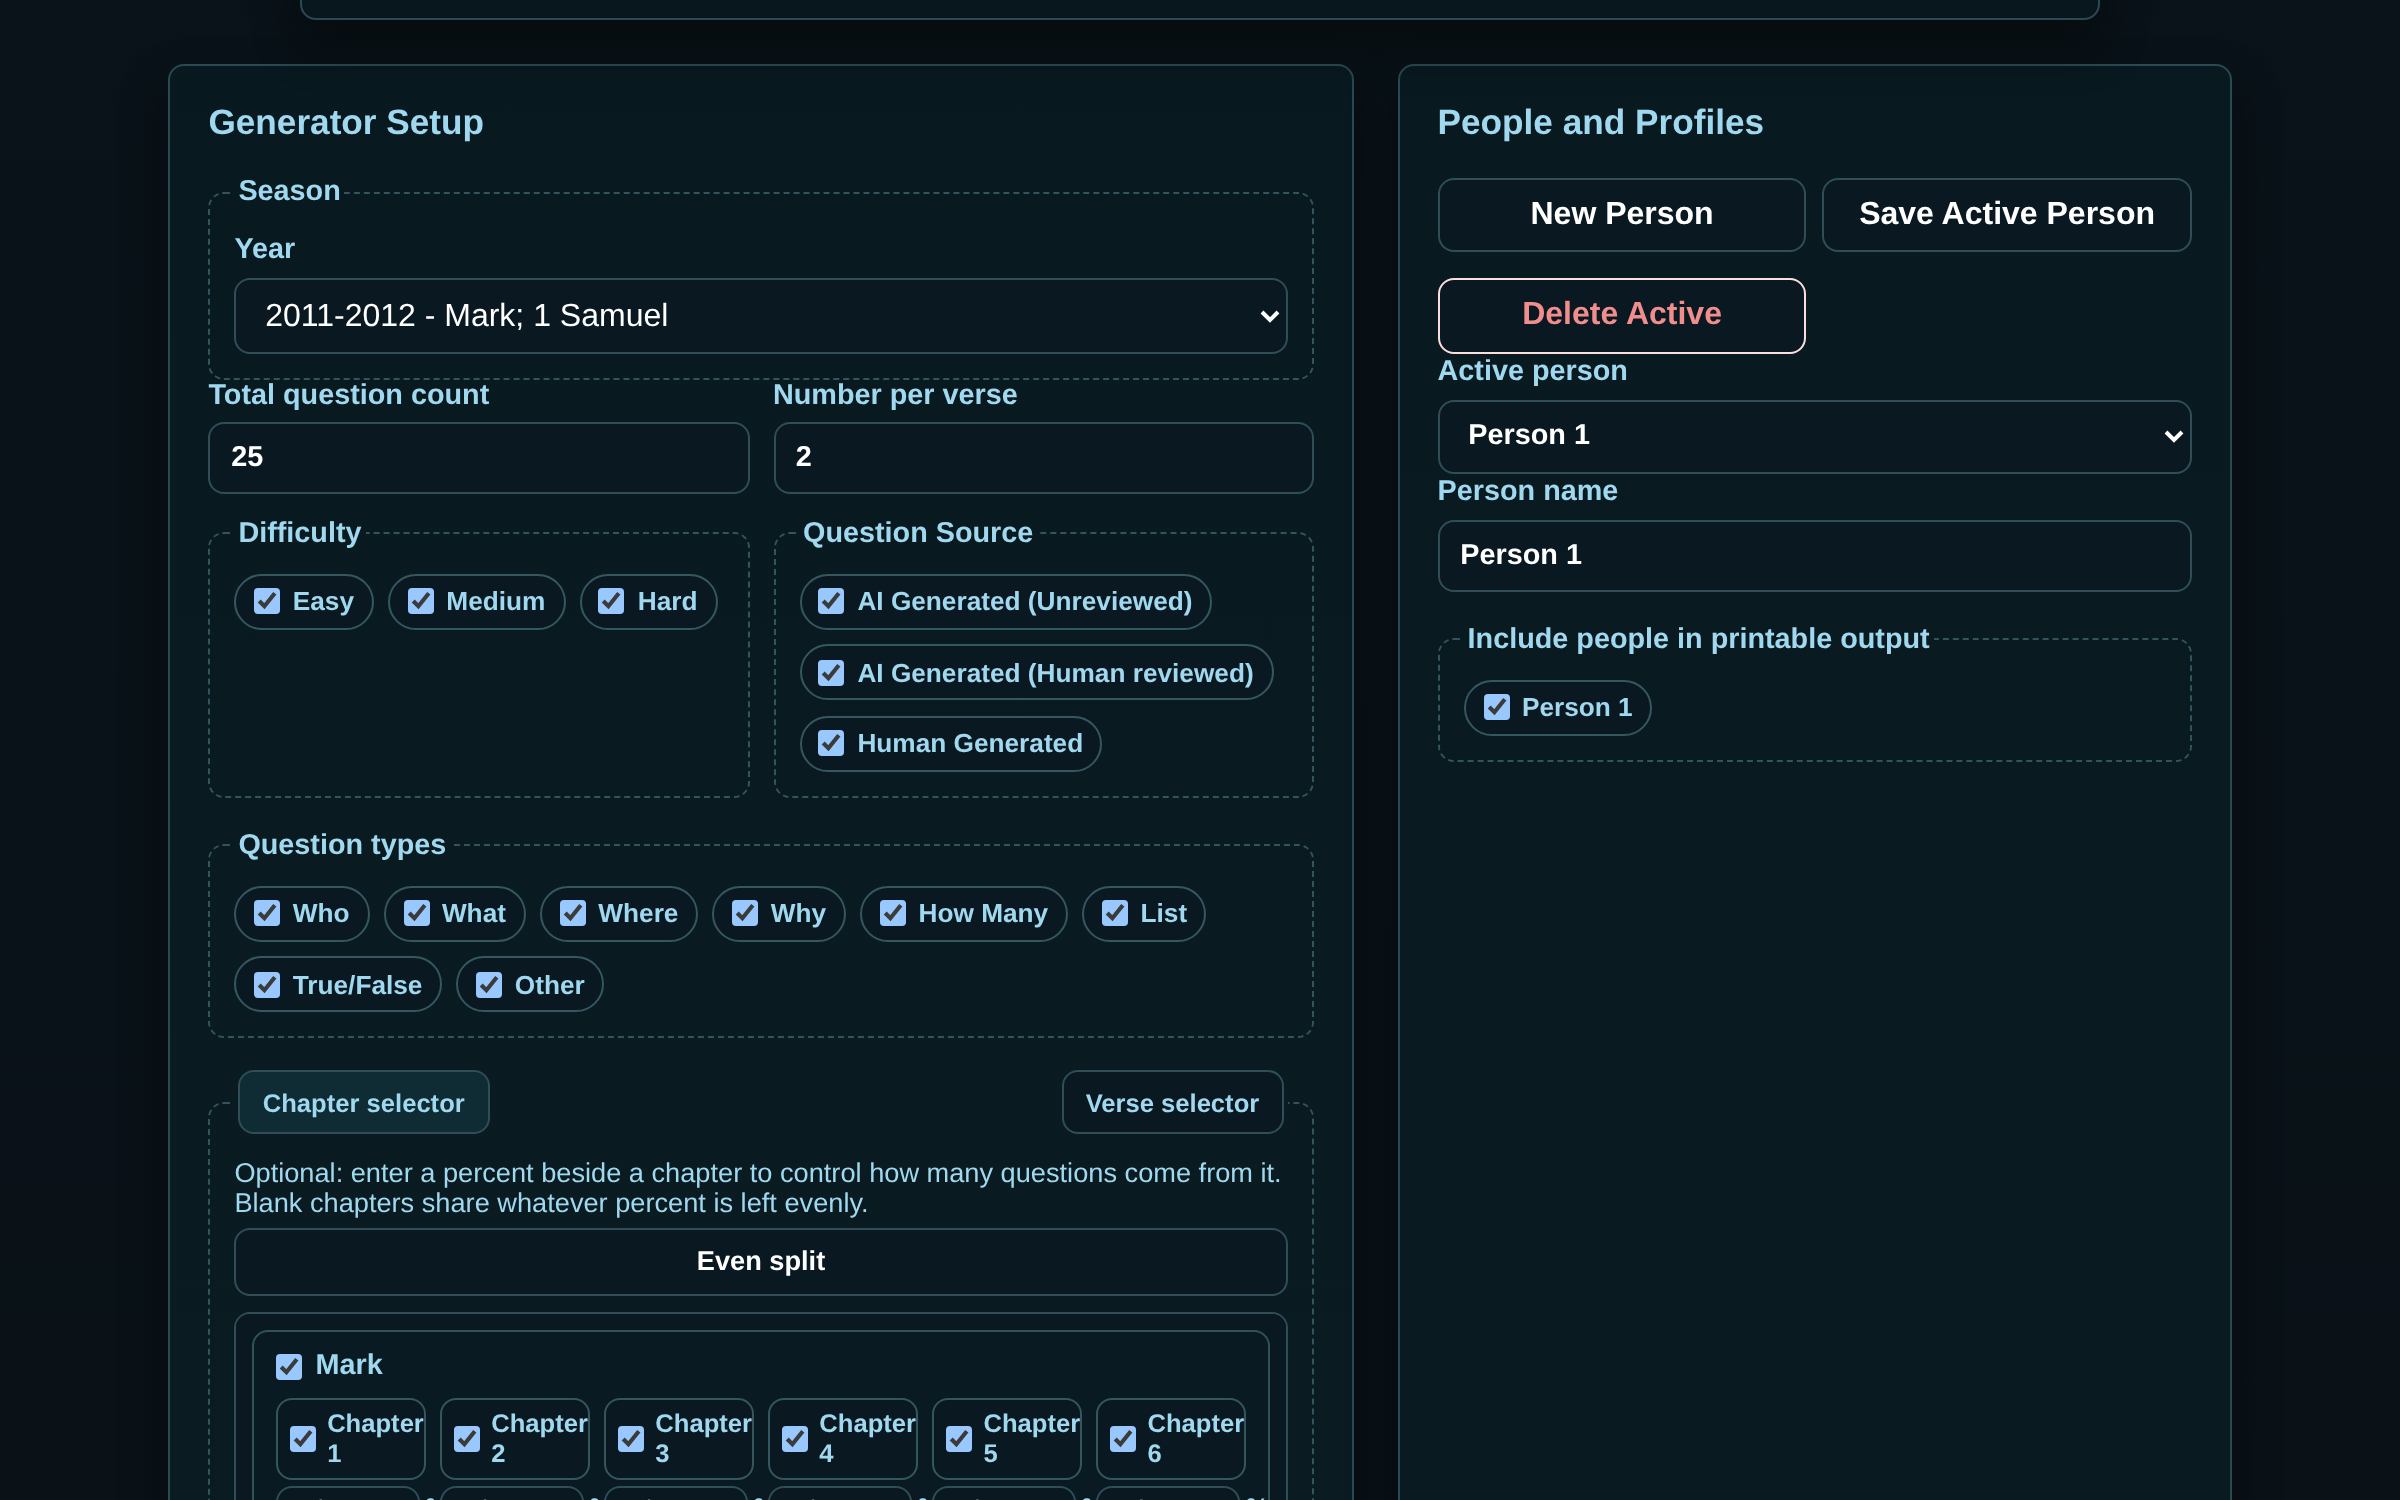
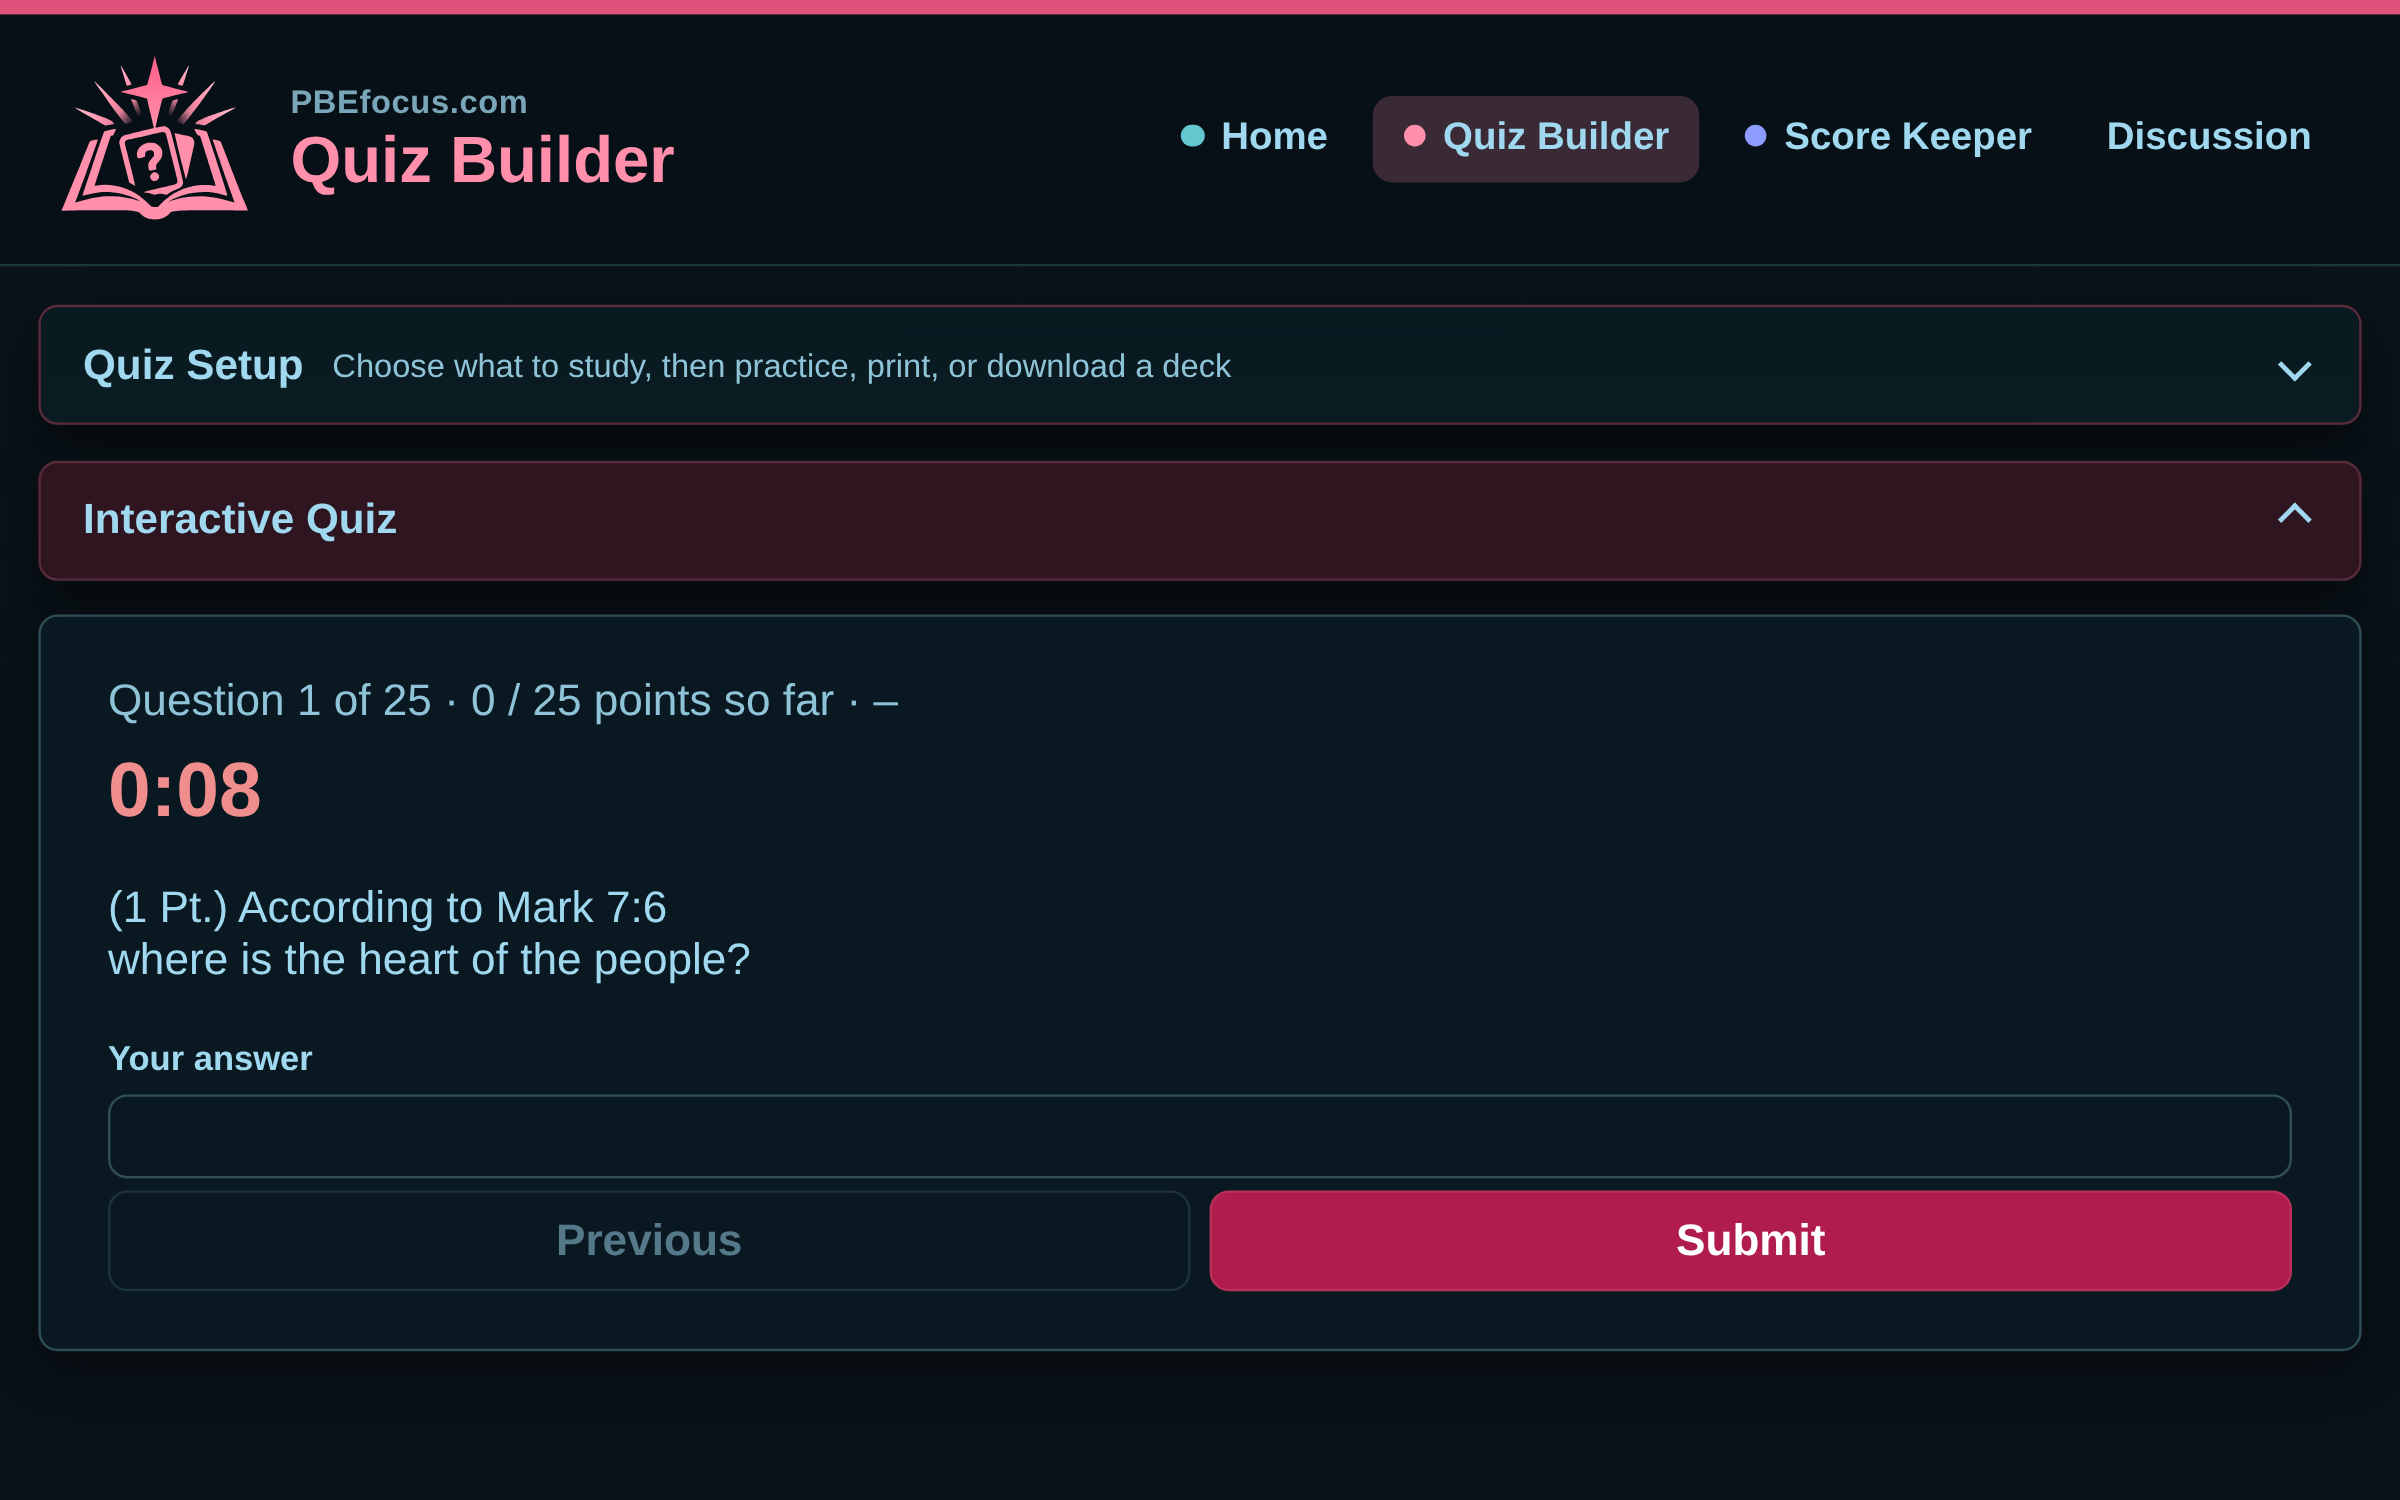
Refresh the Quiz Builder home-card screenshots; follow the accent in panel gradients
New light and dark screenshots show the rebuilt Quiz Builder (ruby header lockup, timed
interactive question) in place of the old Generator Setup view, with matching alt text.
brand.css: panel and card gradients were hard-coded to a teal wash; they now use the accent
wash (light mode only).

Claude-Session: https://claude.ai/code/session_015wnkqHrwHQNyrqygxi6B5s

diff --git a/brand.css b/brand.css
@@ -229,6 +229,21 @@ html[data-site] .karaoke-word.active {
   color: #fff;
 }
 
+/* Panel and card gradients were hard-coded to a teal wash (rgba(232,247,246)); follow the accent
+   instead. Light mode only: the dark surfaces are the shared neutral. */
+@media (prefers-color-scheme: light), (prefers-color-scheme: no-preference) {
+  html[data-site] {
+    --panel-bg: linear-gradient(180deg, rgba(255, 255, 252, 0.98),
+      color-mix(in srgb, var(--teal-wash) 96%, transparent));
+  }
+  html[data-site] .panel,
+  html[data-site] .feature-card:not(.resources-card),
+  [data-tool] .feature-card:not(.resources-card) {
+    background: var(--panel-bg, linear-gradient(180deg, rgba(255, 255, 252, 0.98),
+      color-mix(in srgb, var(--teal-wash) 96%, transparent)));
+  }
+}
+
 /* Hover/selection washes that were hard-coded teal rgba(). */
 html[data-site] .chapter-check:hover,
 html[data-site] .verse-check:hover {

diff --git a/index.html b/index.html
@@ -116,7 +116,7 @@
               <img
                 class="tool-screenshot quiz-screenshot"
                 src="assets/quiz-builder-screenshot.png"
-                alt="PBE Quiz Builder live interface showing season, question count, and people profile settings."
+                alt="PBE Quiz Builder in the middle of an interactive quiz: ruby accent header with the Quiz Builder mark, a timed question, and the answer box."
               >
             </picture>
             </a>
